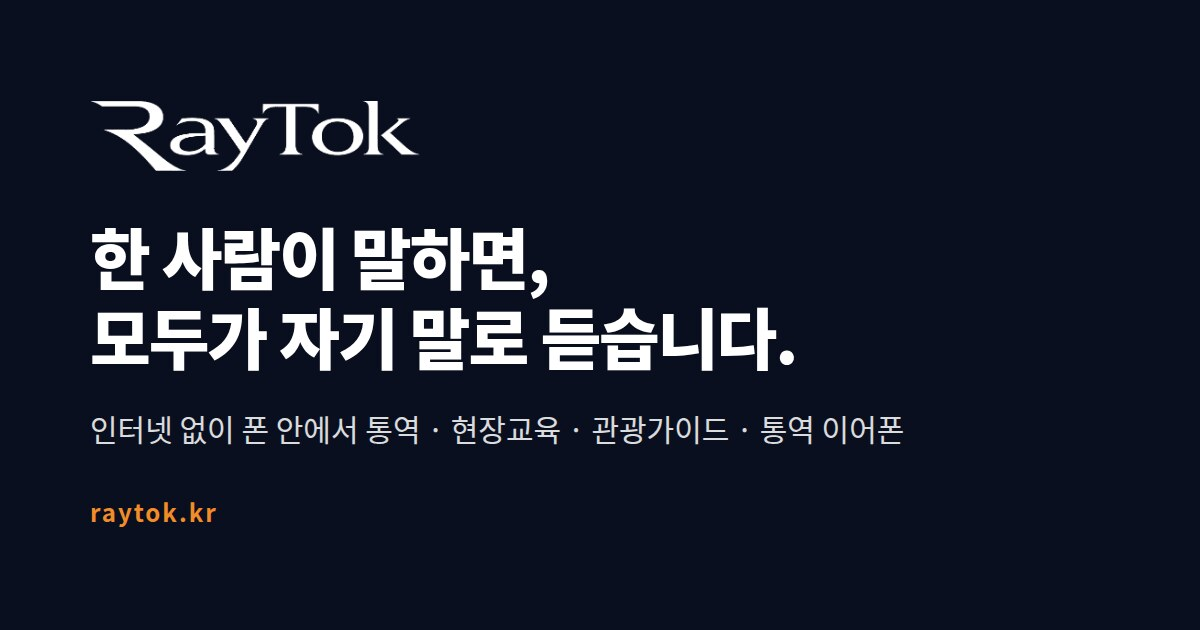
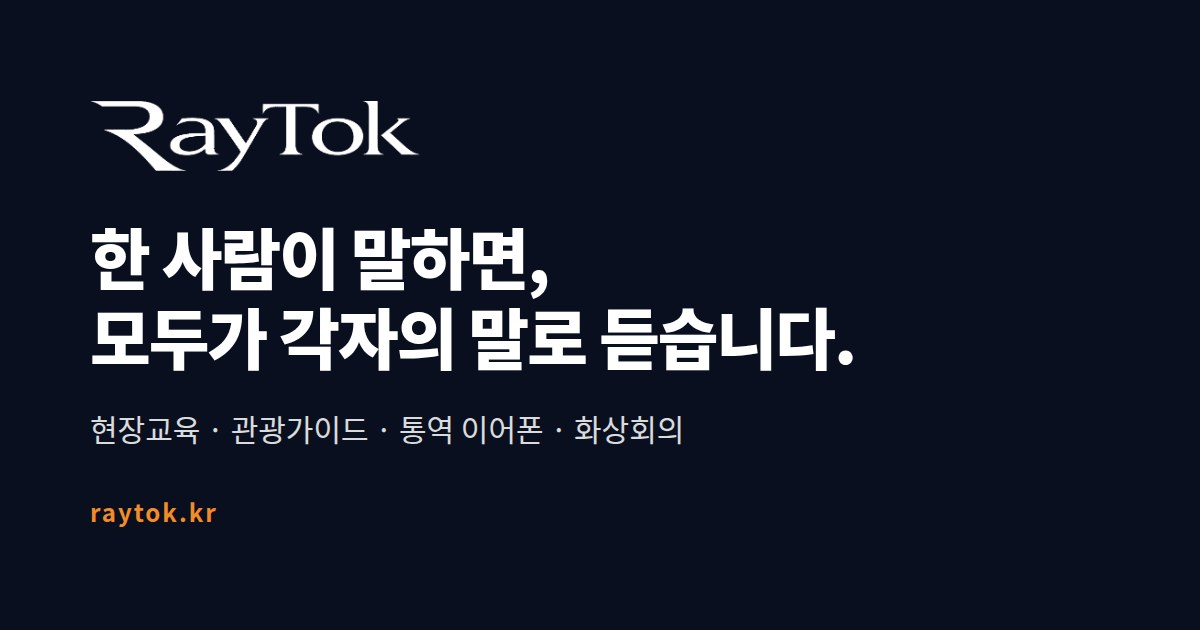
공유 썸네일(og.jpg) 문구 갱신: 각자의 말로, 제품 네 가지
Claude-Session: https://claude.ai/code/session_017QiRpBpxMdUehAU87PBnEe

Changed region(s): [[0.2158, 0.4825, 0.7092, 0.6032], [0.0617, 0.6635, 0.7708, 0.7238]]

diff --git a/field/index.html b/field/index.html
@@ -10,7 +10,7 @@
 <meta property="og:title" content="RayTok 현장교육 — 강사는 한국어로, 근로자는 각자의 말로">
 <meta property="og:description" content="외국인 근로자 안전교육·작업지시를 위한 통역 도구. 현장 인터넷 불필요, 근로자 앱 설치 불필요, 교육 기록 자동 생성. 근로자 1인 월 1만원(부가세 포함), 30일 무료.">
 <meta property="og:url" content="https://raytok.kr/field/">
-<meta property="og:image" content="https://raytok.kr/assets/og.jpg">
+<meta property="og:image" content="https://raytok.kr/assets/og.jpg?v=2">
 <meta property="og:image:width" content="1200">
 <meta property="og:image:height" content="630">
 <meta name="theme-color" content="#0A0F1F">

diff --git a/desk/index.html b/desk/index.html
@@ -10,7 +10,7 @@
 <meta property="og:title" content="RayTok Desk — 상대 회사가 아무것도 사지 않아도 되는 화상회의 통역">
 <meta property="og:description" content="내 PC 하나로 화상회의를 통역합니다. 어느 회의 앱이든, 참석자는 링크만 열고 자기 언어로 듣고 봅니다. 봇 없음, 관리자 설정 없음. 2026년 11월 출시 예정.">
 <meta property="og:url" content="https://raytok.kr/desk/">
-<meta property="og:image" content="https://raytok.kr/assets/og.jpg">
+<meta property="og:image" content="https://raytok.kr/assets/og.jpg?v=2">
 <meta property="og:image:width" content="1200">
 <meta property="og:image:height" content="630">
 <meta name="theme-color" content="#0A0F1F">

diff --git a/tour/index.html b/tour/index.html
@@ -10,7 +10,7 @@
 <meta property="og:title" content="RayTok 관광가이드 — 한 번 말하면, 모두가 각자의 말로 듣습니다">
 <meta property="og:description" content="다국어 단체 투어를 위한 통역 도구. 손님은 설치도 로밍도 필요 없이 자기 폰과 이어폰으로 듣습니다. 쿠폰 1장 7일 5,000원(부가세 포함), 30일 무료 체험.">
 <meta property="og:url" content="https://raytok.kr/tour/">
-<meta property="og:image" content="https://raytok.kr/assets/og.jpg">
+<meta property="og:image" content="https://raytok.kr/assets/og.jpg?v=2">
 <meta property="og:image:width" content="1200">
 <meta property="og:image:height" content="630">
 <meta name="theme-color" content="#0A0F1F">

diff --git a/index.html b/index.html
@@ -10,7 +10,7 @@
 <meta property="og:title" content="RayTok — 한 사람이 말하면, 모두가 각자의 말로 듣습니다">
 <meta property="og:description" content="외국인 근로자 현장교육, 다국어 관광 가이드, 나눠 끼는 통역 이어폰, 화상회의 통역. 현장용 앱은 인터넷 없이 폰 안에서 통역합니다.">
 <meta property="og:url" content="https://raytok.kr/">
-<meta property="og:image" content="https://raytok.kr/assets/og.jpg">
+<meta property="og:image" content="https://raytok.kr/assets/og.jpg?v=2">
 <meta property="og:image:width" content="1200">
 <meta property="og:image:height" content="630">
 <meta name="theme-color" content="#0A0F1F">

diff --git a/ows/index.html b/ows/index.html
@@ -10,7 +10,7 @@
 <meta property="og:title" content="RayTok OWS 통역 이어폰 — 건네도 괜찮은 통역 이어폰">
 <meta property="og:description" content="귀를 막지 않는 오픈형 이어폰과 RayTok 앱. 한쪽을 건네고 마주 보며 대화합니다. 인터넷 없이 59개 언어. 출시 준비 중.">
 <meta property="og:url" content="https://raytok.kr/ows/">
-<meta property="og:image" content="https://raytok.kr/assets/og.jpg">
+<meta property="og:image" content="https://raytok.kr/assets/og.jpg?v=2">
 <meta property="og:image:width" content="1200">
 <meta property="og:image:height" content="630">
 <meta name="theme-color" content="#0A0F1F">

diff --git a/tools/build_home.py b/tools/build_home.py
@@ -76,7 +76,7 @@ def head(title, desc, path, og):
 <meta property="og:title" content="{title}">
 <meta property="og:description" content="{desc}">
 <meta property="og:url" content="https://raytok.kr{path}">
-<meta property="og:image" content="https://raytok.kr/assets/og.jpg">
+<meta property="og:image" content="https://raytok.kr/assets/og.jpg?v=2">
 <meta property="og:image:width" content="1200">
 <meta property="og:image:height" content="630">
 <meta name="theme-color" content="#0A0F1F">
